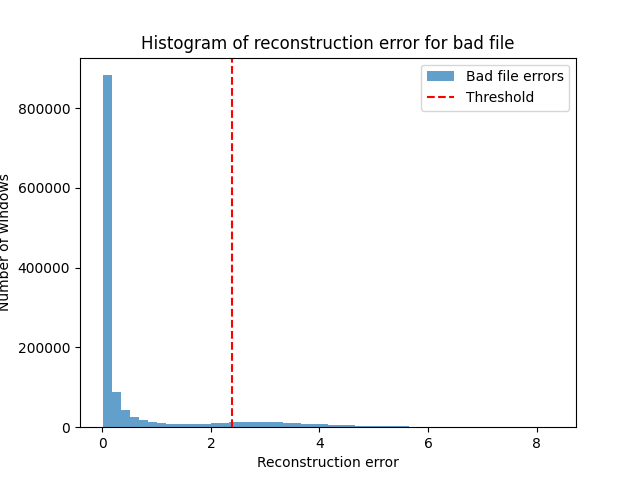
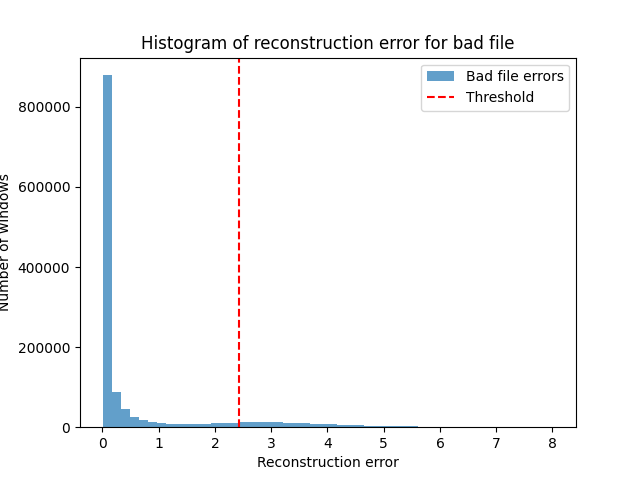
model pushed

diff --git a/model.py b/model.py
@@ -14,25 +14,34 @@ import numpy as np
 # Built for time series
 
 class Autoencoder(Model):
-  def __init__(self, latent_dim):
-    super(Autoencoder, self).__init__()
+    def __init__(self, latent_dim):
+        super(Autoencoder, self).__init__()
+        self.latent_dim = 64
 
-    self.encoder = Sequential([
-      layers.Input(shape=(64,)),
-      layers.Dense(32, activation='relu'),
-      layers.Dense(latent_dim, activation='relu'),
-    ])
+        self.encoder = Sequential([
+        layers.Input(shape=(64,)),
+        layers.Dense(32, activation='relu'),
+        layers.Dense(latent_dim, activation='relu'),
+        ])
 
-    self.decoder = Sequential([
-      layers.Dense(32, activation='relu'),
-      layers.Dense(64, activation='linear'),
-      layers.Reshape((64, 1)),
-    ])
+        self.decoder = Sequential([
+        layers.Dense(32, activation='relu'),
+        layers.Dense(64, activation='linear'),
+        layers.Reshape((64, 1)),
+        ])
 
-  def call(self, x):
-    encoded = self.encoder(x)
-    decoded = self.decoder(encoded)
-    return decoded
+    def call(self, x):
+        encoded = self.encoder(x)
+        decoded = self.decoder(encoded)
+        return decoded
+  
+    def get_config(self):
+        # Return only serializxable arguments
+        return {"latent_dim": self.latent_dim}
+
+    def from_config(cls, config):
+        # Keras will pass config={"latent_dim": 64}
+        return cls(**config)
 
 
 
@@ -108,7 +117,8 @@ def main():
                 epochs=10,
                 shuffle=True,
                 validation_split = 0.1)
-    
+    autoencoder.save("model.keras")
+
     reconstructions = autoencoder.predict(X_test_norm)
     errors = tf.reduce_mean((X_test_norm - reconstructions)**2, axis=1)
 
@@ -134,7 +144,8 @@ def main():
     for i in range(len(labels)):
        if labels[i] == "Failure":
           print("Failure Detected")
-       
+    
+    
 
     '''
     window_size = 64
